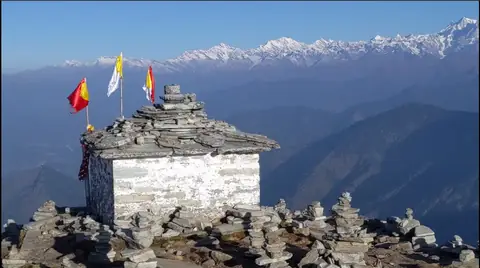
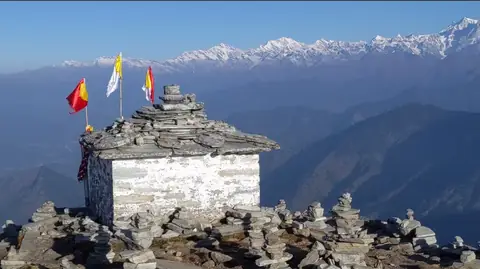
build: crop letterbox bars off screenshot sources
Several sources are phone screenshots with hard black bars: IMG_5570 had
230px top and bottom, Buran's title.webp similar, and four Chopta frames
carried thin pillarbox bars down the sides. They were being resized and
shipped bars and all, and any frame drawn around them would have framed
the black rather than the photograph.

The build now detects and crops them on both axes. A bar only ends where
sustained image content begins, because the bottom bar on a phone
screenshot contains a bright home-indicator that a naive scan stops at.
Photographs without bars are untouched — the detector reports 0 on all
of them.

diff --git a/img-manifest.js b/img-manifest.js
@@ -13,7 +13,7 @@ window.MT_IMAGES = {
  },
  "Buran ghati/IMG_5570.webp": {
   "dir": "img/buran-ghati",
-  "h": 2556,
+  "h": 2096,
   "stem": "img-5570",
   "w": 1179,
   "widths": [
@@ -53,7 +53,7 @@ window.MT_IMAGES = {
  },
  "Buran ghati/title.webp": {
   "dir": "img/buran-ghati",
-  "h": 4032,
+  "h": 3477,
   "stem": "title",
   "w": 2268,
   "widths": [
@@ -67,7 +67,7 @@ window.MT_IMAGES = {
   "dir": "img/chandrashila-tungnath",
   "h": 1036,
   "stem": "screenshot-2026-06-14-230258",
-  "w": 1855,
+  "w": 1846,
   "widths": [
    480,
    960,
@@ -89,7 +89,7 @@ window.MT_IMAGES = {
   "dir": "img/chandrashila-tungnath",
   "h": 1080,
   "stem": "screenshot-20260614-230825-photos-jpg",
-  "w": 1920,
+  "w": 1919,
   "widths": [
    480,
    960,
@@ -100,7 +100,7 @@ window.MT_IMAGES = {
   "dir": "img/chandrashila-tungnath",
   "h": 1080,
   "stem": "screenshot-20260614-231354-photos-jpg",
-  "w": 1930,
+  "w": 1921,
   "widths": [
    480,
    960,
@@ -121,7 +121,7 @@ window.MT_IMAGES = {
   "dir": "img/chandrashila-tungnath",
   "h": 1080,
   "stem": "back",
-  "w": 1924,
+  "w": 1920,
   "widths": [
    480,
    960,

diff --git a/tools/build-images.py b/tools/build-images.py
@@ -15,6 +15,7 @@ import re
 import sys
 import unicodedata
 
+import numpy as np
 from PIL import Image, ImageOps
 
 ROOT = os.path.dirname(os.path.dirname(os.path.abspath(__file__)))
@@ -43,6 +44,40 @@ ROOT_IMAGES = ["hero.webp"]
 FULLBLEED_STEMS = {"back", "title", "hero"}
 
 
+def autocrop_letterbox(im):
+    """Strip black letterbox bars from phone screenshots.
+
+    Some sources are screen recordings/screenshots with hard black bars and,
+    at the bottom, a bright home-indicator sitting inside the bar. A naive
+    scan stops at that indicator, so a bar only ends where sustained image
+    content begins. Photos without bars are returned untouched.
+    """
+    a = np.asarray(im.convert("RGB")).astype(float)
+
+    def content_start(flags, min_run):
+        run = min(min_run, len(flags))
+        for i in range(len(flags)):
+            if not flags[i] and (~flags[i:i + run]).sum() >= run * 0.9:
+                return i
+        return 0
+
+    def bounds(means):
+        dark = means < 24
+        run = max(8, int(len(means) * 0.02))
+        lo = content_start(dark, run)
+        hi = len(means) - 1 - content_start(dark[::-1], run)
+        return lo, hi
+
+    top, bottom = bounds(a.mean(axis=(1, 2)))      # horizontal bars
+    left, right = bounds(a.mean(axis=(0, 2)))      # vertical bars (pillarbox)
+
+    w, h = im.size
+    if (top, left) == (0, 0) and (bottom, right) == (h - 1, w - 1):
+        return im, 0
+    trimmed = top + (h - 1 - bottom) + left + (w - 1 - right)
+    return im.crop((left, top, right + 1, bottom + 1)), trimmed
+
+
 def slugify(name):
     """'Buran ghati' -> 'buran-ghati'. Keeps output paths URL-safe."""
     norm = unicodedata.normalize("NFKD", name).encode("ascii", "ignore").decode()
@@ -68,6 +103,7 @@ def build_one(src, out_dir, force=False):
         im = ImageOps.exif_transpose(im)  # honour phone orientation tags
         if im.mode not in ("RGB", "RGBA"):
             im = im.convert("RGB")
+        im, trimmed = autocrop_letterbox(im)
         src_w, src_h = im.size
         ratio = src_h / src_w
 
@@ -91,6 +127,9 @@ def build_one(src, out_dir, force=False):
             made.append(src_w)
             if not os.path.exists(out_path) or force:
                 im.save(out_path, "WEBP", quality=quality, method=METHOD)
+
+    if trimmed:
+        print("      (cropped %dpx of letterbox)" % trimmed)
 
     return {
         "w": src_w,
